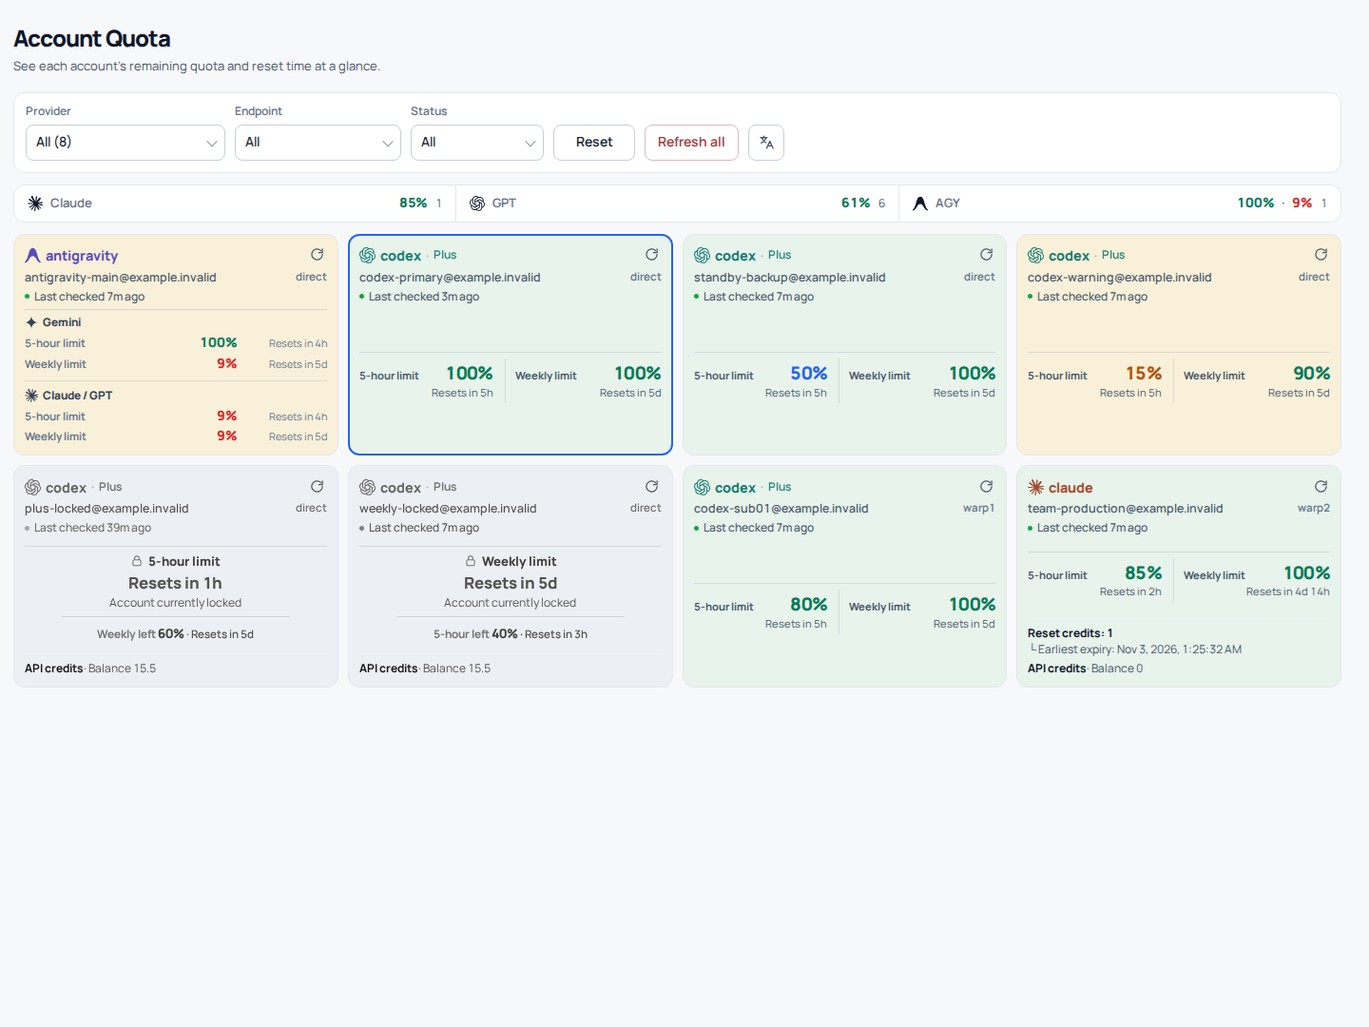
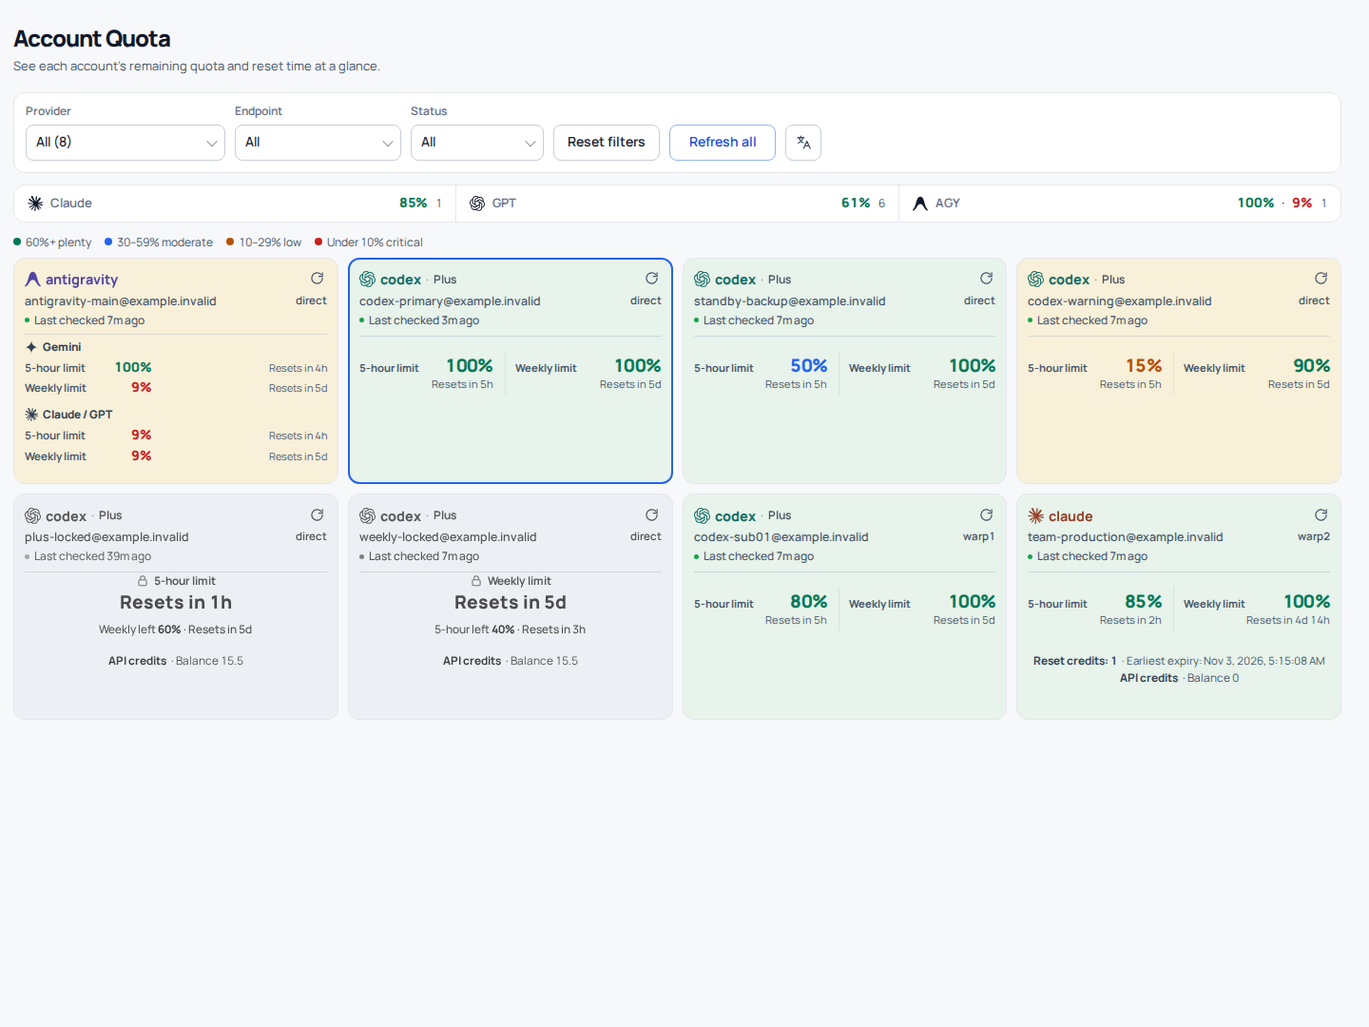
feat(dashboard): quieter, aligned card design
- one divider per card; values centred at the same height across cards in a row
- locked cards share one 3-step layout (title, hero time, hint) for all providers
- empty/error/pending cards get an icon, a title and a hint, centred in the card body
- reset tickets and API credits become plain two-line text instead of a block
- colour legend, clearer 'Reset filters' label, blue refresh-all button
- small text reaches WCAG AA contrast; one-column phone layout hugs content
- tests and layout checks updated to the new card contract; README screenshots refreshed

diff --git a/internal/dashboard/style.css b/internal/dashboard/style.css
@@ -27,7 +27,7 @@
     --prov-ag-text: #5b4bb7;
     --prov-codex-bg: #eaf8f6;
     --prov-codex-border: #bfe8e2;
-    --prov-codex-text: #147a72;
+    --prov-codex-text: #0f6b64;
     --prov-claude-text: #a44a2c;
     --prov-neutral-bg: #f1f5f9;
     --prov-neutral-border: #cbd5e1;
@@ -70,7 +70,7 @@
     --pct-high: #047857;
     --pct-med: #2563eb;
     --pct-warn: #b45309;
-    --pct-low: #dc2626;
+    --pct-low: #c81e1e;
     --pct-unknown: #64748b;
 
     /* Recent usage stays independent of quota availability. */
@@ -113,6 +113,9 @@
   /* Specificity beats .ui-ripple-host { position: relative } so the icon stays pinned to the card corner. */
   .account-card > .card-heading .card-refresh, .account-card .card-refresh.ui-ripple-host { position: absolute; top: 7px; right: 7px; z-index: 1; width: 28px; height: 28px; min-height: 28px; padding: 0; border: 1px solid transparent; border-radius: 8px; background: transparent; color: var(--muted); }
   .card-refresh svg { width: 15px; height: 15px; flex-shrink: 0; }
+  /* Keep the 28px visual, but give pointer/touch a 40px hit area and a visible keyboard focus ring. */
+  .card-refresh::after { content: ''; position: absolute; inset: -6px; }
+  .account-card .card-refresh:focus-visible { outline: 2px solid var(--filter-control-focus); outline-offset: 1px; background: rgba(255,255,255,0.7); }
   .account-card .card-refresh:hover:not(:disabled) { color: var(--text); background: rgba(255,255,255,0.7); border-color: var(--border); }
   .card-refresh[aria-busy="true"] svg { animation: card-refresh-spin 0.9s linear infinite; }
   @keyframes card-refresh-spin { to { transform: rotate(360deg); } }
@@ -186,13 +189,13 @@
   .compact-select:focus-visible { outline: 2px solid var(--filter-control-focus); outline-offset: 2px; border-color: var(--filter-control-focus); }
   .compact-select:disabled { background: #f2f4f7; color: var(--filter-label-color); cursor: not-allowed; opacity: 0.75; }
   .filter-actions { display: flex; flex-wrap: wrap; justify-content: flex-start; gap: var(--filter-gap); min-width: 0; }
-  .filter-actions .filter-reset-button { width: auto; min-width: 86px; }
+  .filter-actions .filter-reset-button { width: auto; min-width: 112px; white-space: nowrap; }
   .manual-refresh-status:empty { display: none; }
   .manual-refresh-status { margin-top: 8px; color: var(--muted); font-size: 0.8125rem; text-align: left; }
   .filter-reset-button { min-height: var(--filter-control-height); height: var(--filter-control-height); padding: 0 13px; border: 1px solid var(--filter-control-border); border-radius: var(--filter-control-radius); background: var(--filter-control-bg); color: #182230; font-family: inherit; font-size: 0.875rem; font-weight: 600; line-height: 1.2; justify-content: center; }
-  #fullRefreshBtn { background: #fff; border-color: #dfb7b7; color: #a43a3a; }
-  #fullRefreshBtn:hover:not(:disabled) { background: #fff5f5; border-color: #c88989; color: #8b2e2e; }
-  #fullRefreshBtn:focus-visible { outline-color: #a43a3a; }
+  #fullRefreshBtn { background: #fff; border-color: #93b4f0; color: var(--accent-hover); }
+  #fullRefreshBtn:hover:not(:disabled) { background: var(--accent-bg); border-color: var(--accent); color: #1e40af; }
+  #fullRefreshBtn:focus-visible { outline-color: var(--accent); }
   .filter-reset-button:hover:not(:disabled) { background: var(--filter-control-hover-bg); border-color: #98a2b3; }
   .filter-reset-button:focus-visible { outline: 2px solid var(--filter-control-focus); outline-offset: 2px; border-color: var(--filter-control-focus); }
 
@@ -213,7 +216,7 @@
 
   /* Three stable regions: identity above, quota centered, optional credits below. */
   .card-heading { display: flex; flex-direction: column; gap: 6px; min-width: 0; }
-  .card-quota { flex: 1 0 auto; display: flex; flex-direction: column; justify-content: center; min-width: 0; }
+  .card-quota { flex: 1 0 auto; display: flex; flex-direction: column; justify-content: flex-start; min-width: 0; }
   .quota-groups { display: flex; flex-direction: column; gap: 5px; margin-top: 0; min-width: 0; }
   /* Fill the shared row while allowing it to grow for the largest card's wrapped content. */
   .account-card { background: var(--surface); border: 1px solid var(--account-border); border-radius: var(--radius); padding: 10px 11px; display: flex; flex-direction: column; gap: 6px; min-width: 0; width: 100%; min-height: 226px; height: 100%; position: relative; overflow-wrap: anywhere; container-type: inline-size; }
@@ -272,7 +275,7 @@
   .quota-value-row:nth-child(odd) { padding-right: 12px; border-right: 1px solid rgba(148,163,184,0.28); }
   .quota-value-label { min-width: 0; font-size: 0.7rem; font-weight: 700; color: #475569; white-space: normal; overflow-wrap: anywhere; }
   .quota-value-number { width: 64px; font-size: 1.18rem; line-height: 1.25; font-weight: 800; color: var(--text); text-align: right; font-variant-numeric: tabular-nums; white-space: nowrap; letter-spacing: -0.035em; }
-  .quota-value-reset { grid-column: 1 / -1; align-self: end; min-width: 0; color: var(--muted); font-size: 0.7rem; line-height: 1.35; text-align: right; white-space: normal; overflow-wrap: anywhere; }
+  .quota-value-reset { grid-column: 1 / -1; align-self: end; min-width: 0; color: var(--muted); font-size: 0.7rem; line-height: 1.35; text-align: right; white-space: nowrap; word-break: keep-all; overflow-wrap: normal; }
 
   /* Antigravity: one card, split into Gemini/Claude top-bottom sections. */
   .ag-family-stack { display: flex; flex-direction: column; gap: 8px; }
@@ -282,11 +285,12 @@
   .ag-family-head { margin: 0 0 1px 0; display: inline-flex; align-items: center; width: fit-content; line-height: 1; color: #334155; }
   .ag-family-name { margin-left: 5px; font-size: 0.74rem; font-weight: 750; }
   .ag-family-icon { width: 14px; height: 14px; flex-shrink: 0; display: inline-block; vertical-align: middle; }
-  .ag-family-limits { display: flex; flex-direction: column; gap: 3px; width: 100%; min-width: 0; }
-  .ag-limit-item { display: grid; grid-template-columns: minmax(0,1fr) 54px minmax(0, 88px); align-items: baseline; column-gap: 6px; min-width: 0; width: 100%; }
+  .ag-family-limits { display: grid; grid-template-columns: 4.6em 54px minmax(max-content, 1fr); row-gap: 3px; column-gap: 6px; width: 100%; min-width: 0; }
+  .ag-limit-item { display: grid; grid-template-columns: subgrid; grid-column: 1 / -1; align-items: baseline; column-gap: 6px; min-width: 0; width: 100%; }
   .ag-limit-label { min-width: 0; font-size: 0.72rem; font-weight: 650; color: #64748b; white-space: normal; overflow-wrap: anywhere; }
   .ag-limit-value { font-size: 0.88rem; line-height: 1.25; font-weight: 800; font-variant-numeric: tabular-nums; white-space: nowrap; text-align: right; }
-  .ag-limit-reset { min-width: 0; font-size: 0.68rem; line-height: 1.35; color: #64748b; text-align: right; white-space: normal; overflow-wrap: anywhere; }
+  .ag-limit-label { white-space: nowrap; }
+  .ag-limit-reset { min-width: 0; font-size: 0.68rem; line-height: 1.35; color: #64748b; text-align: right; white-space: nowrap; word-break: keep-all; overflow-wrap: normal; }
   .ag-family-section.is-locked { margin: 0; padding: 6px 0; border: 0; border-top: 1px solid rgba(148,163,184,0.28); border-radius: 0; background: transparent; }
   .ag-family-section.is-locked:first-child { padding-top: 0; border-top: 0; }
   .ag-family-section.is-locked .ag-family-lock { width: 100%; }
@@ -357,6 +361,7 @@
   }
   @container (max-width: 240px) {
     .ag-limit-item { grid-template-columns: minmax(0, 1fr) 54px; row-gap: 2px; }
+    .ag-family-limits { grid-template-columns: minmax(0, 1fr); }
     .ag-limit-reset { grid-column: 1 / -1; }
   }
 
@@ -433,4 +438,89 @@
   @media (min-width: 1200px) {
     :root { --dashboard-top-offset: 24px; }
     body { padding: 0 14px 16px; }
+  }
+
+  /* ===================== Card body (appended design layer, grouped by area) ===================== */
+
+  /* ---- Colour legend ---- */
+  .pct-legend { display: flex; flex-wrap: wrap; gap: 4px 14px; margin: 0 0 8px; padding: 0; list-style: none; color: var(--muted); font-size: 0.75rem; }
+  .pct-legend li { display: inline-flex; align-items: center; gap: 5px; white-space: nowrap; }
+  .pct-legend-dot { width: 8px; height: 8px; border-radius: 50%; flex: 0 0 auto; }
+
+  /* ---- Dividers: one hairline under the card header and nothing else inside the card body ---- */
+  .quota-group, .ag-family-section, .ag-family-section.is-locked, .ag-family-section:first-child,
+  .ag-family-section.is-locked:first-child { border-top: 0; }
+  .ag-family-stack { gap: 12px; }
+  .ag-family-section { padding-top: 0; }
+  .quota-value-row:nth-child(odd) { border-right-color: rgba(148,163,184,0.20); }
+
+  /* ---- Single-window cards (GPT / Claude): values centred below the one divider; equal footer zone ---- */
+  .account-card:not([data-provider="antigravity"]) .card-quota { justify-content: center; padding-top: 0; border-top: 1px solid rgba(148,163,184,0.30); margin-top: 2px; }
+  .account-card:not([data-provider="antigravity"]) .quota-group { padding-top: 0; border-top: 0; }
+  .account-card:not([data-provider="antigravity"]) .quota-groups { gap: 0; }
+  .account-card:not([data-provider="antigravity"]):not(:has(.credit-summary))::after { content: ''; flex: 0 0 62px; }
+
+  /* ---- Locked state: antigravity section + GPT/Claude card share one 3-step reading order ---- */
+  .ag-family-section.is-locked { padding: 10px 0 8px; }
+  .ag-family-lock { min-height: 0; align-items: center; gap: 2px; padding: 0; }
+  .ag-family-lock-title { font-size: 0.74rem; font-weight: 650; color: #475569; gap: 4px; }
+  .ag-family-lock-title .ag-family-icon { display: none; }
+  .ag-family-lock-title .ag-lock-padlock { width: 12px; height: 12px; color: #64748b; }
+  .ag-family-lock-time { margin-top: 0; font-size: 1.2rem; line-height: 1.25; font-weight: 800; }
+  .ag-family-lock-context { width: auto; margin-top: 2px; padding-top: 0; border-top: 0; font-size: 0.74rem; color: #475569; }
+  .ag-family-lock-context strong { font-weight: 700; color: #334155; font-size: 0.74rem; }
+  .ag-family-lock-context .quota-reset-weekly, .ag-family-lock-context .quota-reset-primary { color: inherit; font-weight: 500; }
+
+  .quota-lock-state { min-height: 0; gap: 2px; padding: 0 0 6px; }
+  .quota-lock-icon { width: 14px; height: 14px; color: #64748b; }
+  .quota-lock-title { font-size: 0.74rem; font-weight: 650; color: #475569; }
+  .quota-lock-time { margin-top: 0; font-size: 1.2rem; line-height: 1.25; }
+  .quota-lock-note { display: none; }
+  .quota-lock-weekly { width: auto; margin-top: 2px; padding-top: 0; border-top: 0; color: #475569; }
+  .quota-lock-weekly-summary { font-size: 0.74rem; font-weight: 500; color: #475569; }
+  .quota-lock-weekly strong { font-size: 0.74rem; font-weight: 700; color: #334155; }
+  .quota-lock-weekly small, .quota-lock-weekly .quota-reset-weekly, .quota-lock-weekly .quota-reset-primary { color: inherit; font-weight: 500; font-size: 0.74rem; }
+
+  /* ---- Empty states (pending / error / disabled): icon + one clear line + a hint, centred in the whole body ---- */
+  .quota-pending { flex: 1 1 auto; display: flex; flex-direction: column; align-items: center; justify-content: center; gap: 4px; margin-top: 0; margin-bottom: 0; padding: 0 8px; border-top: 0; text-align: center; }
+  .quota-pending-icon { display: inline-flex; width: 30px; height: 30px; align-items: center; justify-content: center; color: #94a3b8; }
+  .quota-pending-icon svg { width: 28px; height: 28px; }
+  .quota-pending-title { font-size: 0.95rem; font-weight: 750; color: #475569; }
+  .quota-pending-hint { font-size: 0.74rem; color: #475569; line-height: 1.35; }
+  .quota-pending.is-error, .quota-pending.is-error .quota-pending-icon, .quota-pending.is-error .quota-pending-title { color: #b91c1c; font-weight: 600; }
+  .quota-pending.is-error .quota-pending-title { font-weight: 750; }
+  .account-card:has(.quota-pending) { padding-bottom: 10px; }
+  .account-card:has(.quota-pending) .card-quota { justify-content: center; margin-bottom: 0; }
+  .account-card:has(.quota-pending) .quota-pending { padding-bottom: 0; transform: translateY(1px); }
+  .account-card:has(.quota-pending)::after { display: none; }
+
+  /* ---- Credits footer: plain, quiet two-line caption (no pills, no boxes) ---- */
+  .credit-summary { display: flex; flex-direction: column; align-items: center; justify-content: center; gap: 1px;
+    margin: 0; padding: 0; min-height: 0; border-top: 0; font-size: 0.74rem; color: #475569; text-align: center; }
+  .account-card:not([data-provider="antigravity"]) .credit-summary { min-height: 62px; box-sizing: border-box; justify-content: flex-start; padding: 2px 0 0; }
+  .credit-reset-summary, .credit-api-summary { display: flex; flex-direction: row; align-items: baseline; justify-content: center; flex-wrap: wrap;
+    gap: 0 5px; padding: 0; border: 0; border-radius: 0; background: none; color: #475569; line-height: 1.45; width: auto; max-width: 100%; }
+  .credit-reset-primary { display: inline-flex; }
+  .credit-reset-primary strong, .credit-api-summary strong { font-size: 0.74rem; font-weight: 700; color: #334155; }
+  .credit-reset-expiry { display: inline-flex; width: auto; padding: 0; color: #475569; font-size: 0.72rem; }
+  .credit-reset-expiry-tree { display: none; }
+  .credit-reset-expiry-text::before { content: '· '; }
+
+  /* ---- Text contrast: small text reaches WCAG AA (4.5:1) on the tinted card surfaces ---- */
+  .badge-endpoint, .badge-endpoint-unknown { color: #475569; }
+  .ag-limit-label, .quota-value-label, .ag-limit-reset, .quota-value-reset { color: #475569; }
+  .account-card[data-locked="true"] .quota-reset-primary, .quota-reset-primary { filter: brightness(0.9); }
+  .quota-reset-weekly { filter: brightness(0.9); }
+  .badge-provider-claude, .badge-provider-antigravity { filter: brightness(0.9); }
+  .prov-sep, .prov-plan { color: #475569; }
+  .badge-provider-codex .prov-plan, .badge-provider-codex .prov-sep { filter: brightness(0.78); }
+
+  /* ---- One-column (phone) layout: no neighbour to match, so cards hug their content ---- */
+  @media (max-width: 559px) {
+    .cards-grid { grid-auto-rows: auto; }
+    .account-card, .account-card:not([data-provider="antigravity"]) { min-height: 0; }
+    .account-card:not([data-provider="antigravity"]) .card-quota { padding: 8px 0 4px; }
+    .account-card:not([data-provider="antigravity"]) .credit-summary { min-height: 0; padding: 8px 0 0; }
+    .account-card:not([data-provider="antigravity"]):not(:has(.credit-summary))::after { display: none; }
+    .quota-pending { padding: 18px 8px 22px; }
   }

diff --git a/internal/dashboard/app.js b/internal/dashboard/app.js
@@ -109,11 +109,16 @@ var I18N = {
     'filter.endpointAria': 'Endpoint 필터',
     'filter.status': '상태',
     'filter.statusAria': '상태 필터',
-    'filter.reset': '초기화',
+    'filter.reset': '필터 초기화',
     'filter.resetAria': '쿼터 필터 초기화',
     'all': '전체',
     'all.count': '전체 ({n})',
     'fleet.aria': '전체 가용률',
+    'legend.aria': '남은 쿼터 색상 기준',
+    'legend.high': '60% 이상 여유',
+    'legend.med': '30–59% 보통',
+    'legend.warn': '10–29% 주의',
+    'legend.low': '10% 미만 부족',
     'fleet.antigravity_gemini': '안티그래비티 · Gemini',
     'fleet.antigravity_claude': '안티그래비티 · Claude/GPT',
     'fleet.count': '{n}개 계정',
@@ -212,6 +217,11 @@ var I18N = {
     'q.leftAria': '{label} 잔여 {v}',
     'q.familyAria': '{f} 쿼터',
     'q.none': '쿼터 없음',
+    'q.fetchFailed': '조회 실패',
+    'q.disabled': '비활성 계정',
+    'q.hintError': '새로고침 버튼으로 다시 조회할 수 있어요',
+    'q.hintDisabled': '이 계정은 쿼터를 확인하지 않아요',
+    'q.hintPending': '첫 조회가 끝나면 여기에 표시돼요',
     'ag.name': '안티그래비티',
     'credit.reset': '리셋권 {n}장 보유',
     'credit.expiry': '가장 빠른 만료일: {d}',
@@ -243,11 +253,16 @@ var I18N = {
     'filter.endpointAria': 'Endpoint filter',
     'filter.status': 'Status',
     'filter.statusAria': 'Status filter',
-    'filter.reset': 'Reset',
+    'filter.reset': 'Reset filters',
     'filter.resetAria': 'Reset quota filters',
     'all': 'All',
     'all.count': 'All ({n})',
     'fleet.aria': 'Overall availability',
+    'legend.aria': 'Remaining quota color guide',
+    'legend.high': '60%+ plenty',
+    'legend.med': '30–59% moderate',
+    'legend.warn': '10–29% low',
+    'legend.low': 'Under 10% critical',
     'fleet.antigravity_gemini': 'Antigravity \u00b7 Gemini',
     'fleet.antigravity_claude': 'Antigravity \u00b7 Claude/GPT',
     'fleet.count': '{n} accounts',
@@ -347,6 +362,11 @@ var I18N = {
     'q.leftAria': '{label}: {v} remaining',
     'q.familyAria': '{f} quota',
     'q.none': 'No quota',
+    'q.fetchFailed': 'Fetch failed',
+    'q.disabled': 'Disabled account',
+    'q.hintError': 'Use the refresh button to try again',
+    'q.hintDisabled': 'Quota is not checked for this account',
+    'q.hintPending': 'Shown here after the first check',
     'ag.name': 'Antigravity',
     'credit.reset': 'Reset credits: {n}',
     'credit.expiry': 'Earliest expiry: {d}',
@@ -2071,7 +2091,16 @@ function renderAccounts(accounts) {
     } else {
       var noWin = document.createElement('div');
       noWin.className = 'quota-pending';
-      noWin.textContent = availability.key === 'unavailable' || availability.key === 'disabled' ? t('q.none') : t('st.pending');
+      var emptyKey = canon.key === 'error' ? 'q.fetchFailed' : (canon.key === 'disabled' ? 'q.disabled' : (availability.key === 'unavailable' ? 'q.none' : 'st.pending'));
+      var emptyKind = canon.key === 'error' ? 'error' : (canon.key === 'disabled' ? 'disabled' : 'pending');
+      var emptyIcons = {
+        error: '<svg viewBox="0 0 24 24" fill="none" stroke="currentColor" stroke-width="1.8" stroke-linecap="round" stroke-linejoin="round" aria-hidden="true"><circle cx="12" cy="12" r="9"></circle><path d="M12 7.5v5.5"></path><circle cx="12" cy="16.5" r=".6" fill="currentColor"></circle></svg>',
+        disabled: '<svg viewBox="0 0 24 24" fill="none" stroke="currentColor" stroke-width="1.8" stroke-linecap="round" aria-hidden="true"><circle cx="12" cy="12" r="9"></circle><path d="M6.6 17.4 17.4 6.6"></path></svg>',
+        pending: '<svg viewBox="0 0 24 24" fill="none" stroke="currentColor" stroke-width="1.8" stroke-linecap="round" aria-hidden="true"><circle cx="12" cy="12" r="9"></circle><path d="M12 7v5l3 2"></path></svg>'
+      };
+      var emptyHint = { error: t('q.hintError'), disabled: t('q.hintDisabled'), pending: t('q.hintPending') }[emptyKind];
+      noWin.className = 'quota-pending is-' + emptyKind;
+      noWin.innerHTML = '<span class="quota-pending-icon">' + emptyIcons[emptyKind] + '</span><span class="quota-pending-title">' + esc(t(emptyKey)) + '</span><span class="quota-pending-hint">' + esc(emptyHint) + '</span>';
       quotaBody.appendChild(noWin);
     }
 

diff --git a/internal/dashboard/dashboard.html b/internal/dashboard/dashboard.html
@@ -144,6 +144,12 @@
 
     <ul id="fleetAvailability" class="fleet-availability" aria-label="전체 가용률" data-i18n-aria="fleet.aria"></ul>
 
+    <ul class="pct-legend" aria-label="남은 쿼터 색상 기준" data-i18n-aria="legend.aria">
+      <li><span class="pct-legend-dot" style="background:var(--pct-high)"></span><span data-i18n="legend.high">60% 이상 여유</span></li>
+      <li><span class="pct-legend-dot" style="background:var(--pct-med)"></span><span data-i18n="legend.med">30–59% 보통</span></li>
+      <li><span class="pct-legend-dot" style="background:var(--pct-warn)"></span><span data-i18n="legend.warn">10–29% 주의</span></li>
+      <li><span class="pct-legend-dot" style="background:var(--pct-low)"></span><span data-i18n="legend.low">10% 미만 부족</span></li>
+    </ul>
     <div id="accountsList" class="cards-grid" role="region" aria-label="계정 목록" data-i18n-aria="accounts.aria"></div>
   </div>
 </div>

diff --git a/internal/plugin/dashboard_layout_test.go b/internal/plugin/dashboard_layout_test.go
@@ -19,7 +19,7 @@ func TestDashboardUniformCardsAndWrapping(t *testing.T) {
 		".quota-value-row:nth-child(odd) { padding-right: 0; border-right: 0; }",
 		"@container (max-width: 240px)",
 		".ag-limit-reset { grid-column: 1 / -1; }",
-		".ag-limit-item { display: grid; grid-template-columns: minmax(0,1fr) 54px minmax(0, 88px);",
+		".ag-limit-item { display: grid; grid-template-columns: subgrid; grid-column: 1 / -1;",
 		".ag-limit-item { grid-template-columns: minmax(0, 1fr) 54px; row-gap: 2px; }",
 		"--status-active-bg: #f5faf7;", "--status-limited-bg: #fcf8f4;",
 		"--account-border: var(--border);",
@@ -27,7 +27,7 @@ func TestDashboardUniformCardsAndWrapping(t *testing.T) {
 		".quota-lock-title { display: inline-flex; align-items: center; justify-content: center; gap: 5px;",
 		`<div class="quota-lock-title"><svg class="quota-lock-icon"`,
 		`.account-card[data-locked="true"] > .credit-summary { filter: grayscale(1); }`,
-		".card-quota { flex: 1 0 auto; display: flex; flex-direction: column; justify-content: center;",
+		".card-quota { flex: 1 0 auto; display: flex; flex-direction: column; justify-content: flex-start;",
 		"heading.appendChild(header);", "heading.appendChild(freshnessEl.firstChild);",
 		"quotaBody.appendChild(lockEl);", "quotaBody.appendChild(noWin);",
 
@@ -39,7 +39,7 @@ func TestDashboardUniformCardsAndWrapping(t *testing.T) {
 		}
 	}
 	for _, forbidden := range []string{
-		"grid-auto-rows: auto;", "grid-template-rows: 20px 14px;",
+		"grid-template-rows: 20px 14px;",
 		"--card-state-border:", ".quota-pending { margin-top: auto;",
 		"gap: 1px; margin-top: auto;", "card.appendChild(lockEl);", "card.appendChild(noWin);",
 		".quota-value-row:nth-child(odd) { padding-right: 8px; }",

diff --git a/internal/plugin/dashboard_alignment_test.go b/internal/plugin/dashboard_alignment_test.go
@@ -30,9 +30,9 @@ func TestDashboardCompactControlAlignment(t *testing.T) {
 		`var columns = Math.min(4, Math.max(1, Math.floor((grid.getBoundingClientRect().width + 10) / 290)));`,
 		`container.setAttribute('data-count', String(accounts ? accounts.length : 0));`, ".manual-refresh-status:empty { display: none; }",
 		".filter-actions { grid-column: 1 / -1; justify-content: flex-start; }",
-		"#fullRefreshBtn { background: #fff; border-color: #dfb7b7; color: #a43a3a; }",
-		"#fullRefreshBtn:hover:not(:disabled) { background: #fff5f5; border-color: #c88989; color: #8b2e2e; }",
-		"#fullRefreshBtn:focus-visible { outline-color: #a43a3a; }",
+		"#fullRefreshBtn { background: #fff; border-color: #93b4f0; color: var(--accent-hover); }",
+		"#fullRefreshBtn:hover:not(:disabled) { background: var(--accent-bg); border-color: var(--accent); color: #1e40af; }",
+		"#fullRefreshBtn:focus-visible { outline-color: var(--accent); }",
 		"font-size: 0.875rem; font-weight: 600; line-height: 1.2; justify-content: center;",
 		".quota-value-number { width: 64px;", "text-align: right; font-variant-numeric: tabular-nums;",
 	} {

diff --git a/internal/plugin/dashboard_regression_test.go b/internal/plugin/dashboard_regression_test.go
@@ -17,7 +17,7 @@ func TestDashboardRegressionTokens(t *testing.T) {
 		".card-header { display: block; min-width: 0; min-height: 38px; }",
 		".quota-lock-state { display: flex; flex-direction: column; align-items: center; justify-content: center; min-height: 58px;",
 		".card-heading { display: flex; flex-direction: column; gap: 6px; min-width: 0; }",
-		".card-quota { flex: 1 0 auto; display: flex; flex-direction: column; justify-content: center; min-width: 0; }",
+		".card-quota { flex: 1 0 auto; display: flex; flex-direction: column; justify-content: flex-start; min-width: 0; }",
 		".credit-summary { display: flex; flex-direction: column; gap: 4px; margin-top: 0;",
 		"staleNoticeBox",
 		"accountStatusLive",
@@ -142,7 +142,7 @@ func TestRegressionPastelTokensAndProviderIcons(t *testing.T) {
 		"--prov-ag-text: #5b4bb7;",
 		"--prov-codex-bg: #eaf8f6;",
 		"--prov-codex-border: #bfe8e2;",
-		"--prov-codex-text: #147a72;",
+		"--prov-codex-text: #0f6b64;",
 		"--status-active-bg: #f5faf7;",
 		"--status-active-text: #065f46;",
 		"--pct-high: #047857;",

diff --git a/internal/plugin/plugin_test.go b/internal/plugin/plugin_test.go
@@ -450,7 +450,7 @@ func TestDashboardPastelTokensAndProviderIcons(t *testing.T) {
 		"--prov-ag-text: #5b4bb7;",
 		"--prov-codex-bg: #eaf8f6;",
 		"--prov-codex-border: #bfe8e2;",
-		"--prov-codex-text: #147a72;",
+		"--prov-codex-text: #0f6b64;",
 		"--status-active-bg: #f5faf7;",
 		"--status-active-text: #065f46;",
 		"--pct-high: #047857;",
